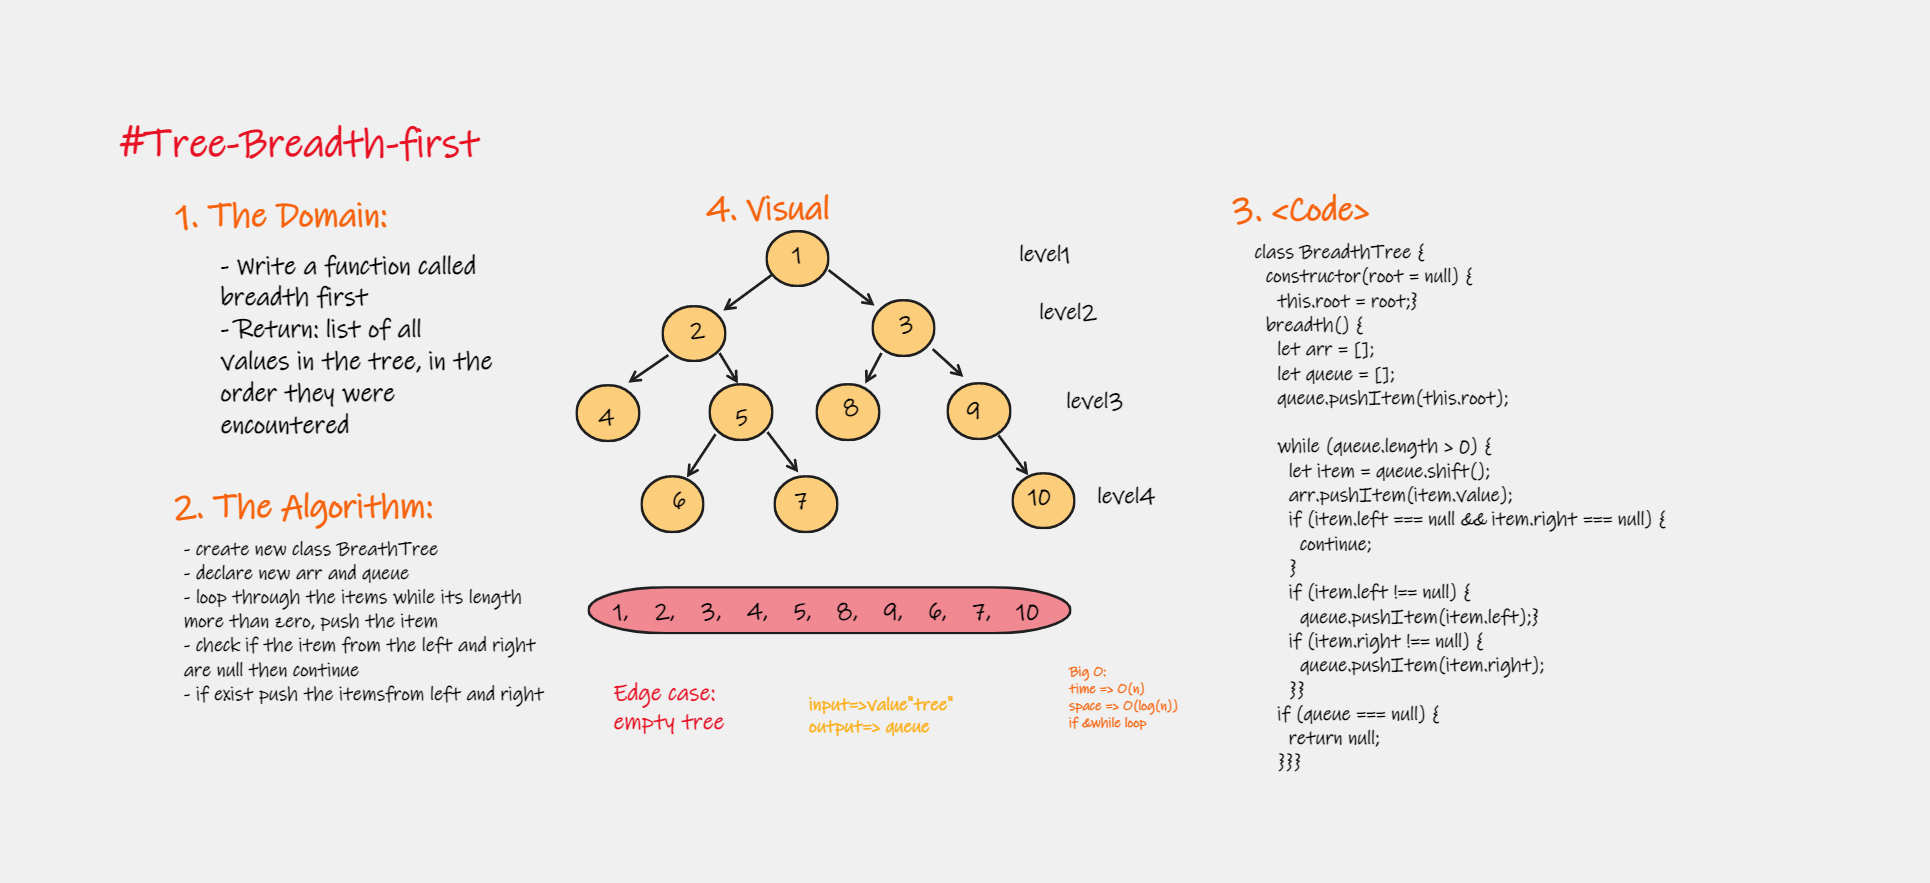
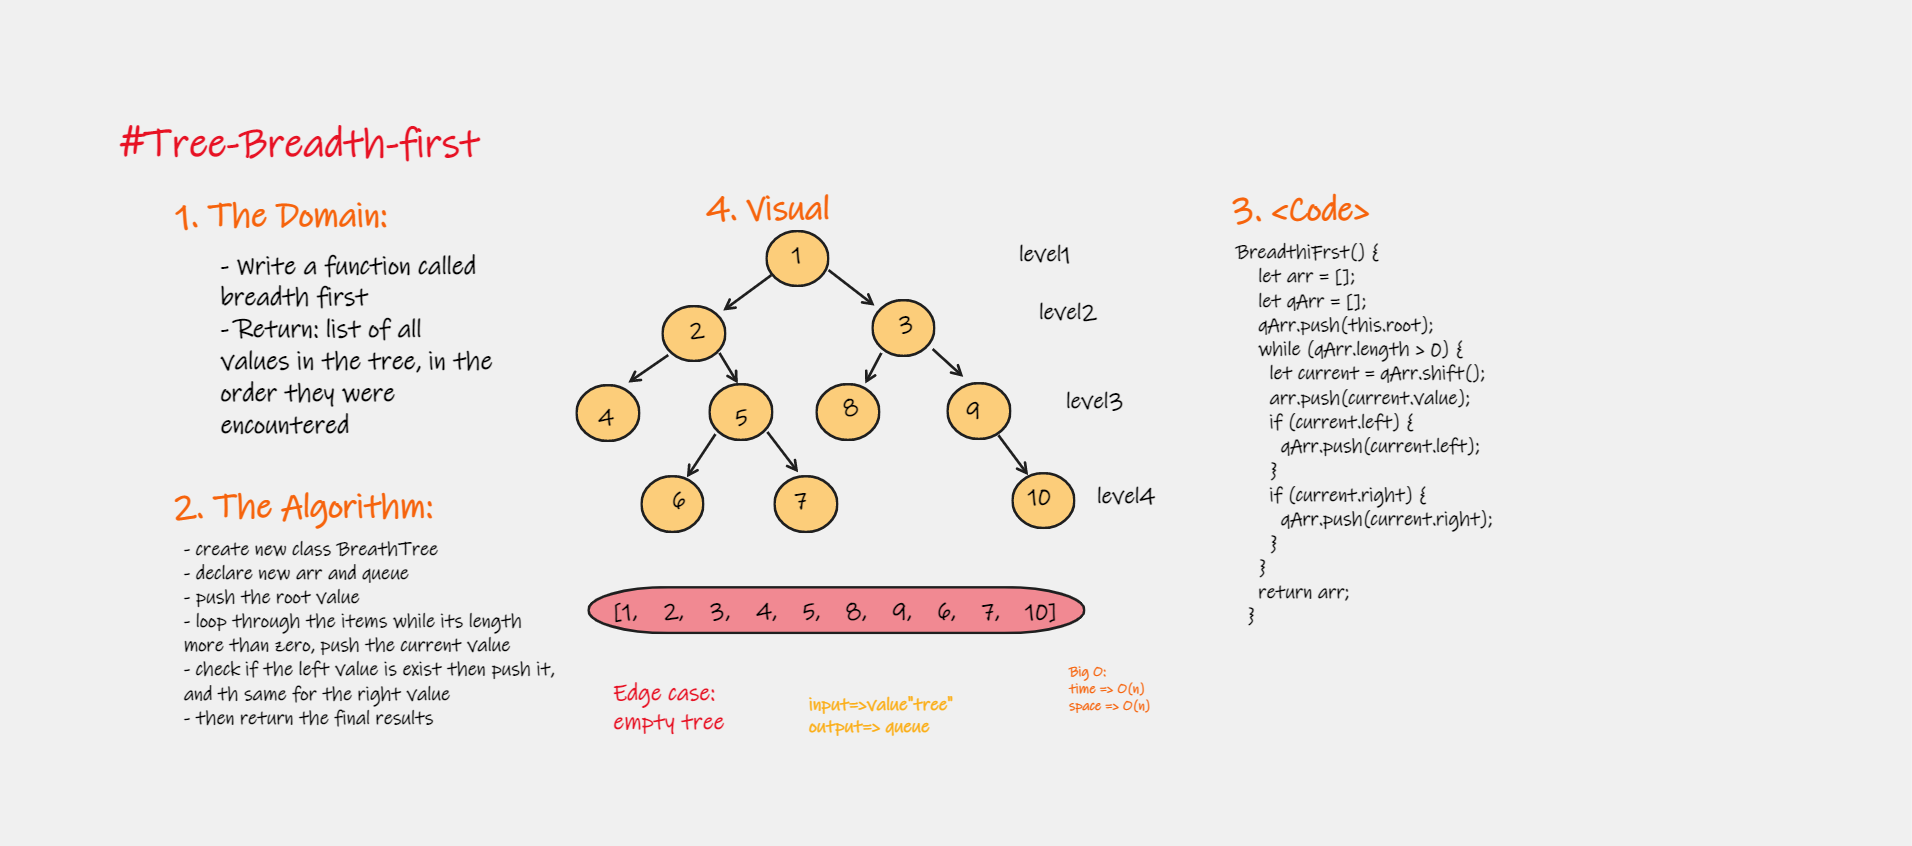
challenge 17 solved

diff --git a/javascript/tree/tests/breadth.test.js b/javascript/tree/tests/breadth.test.js
@@ -1,25 +1,55 @@
 "use strict";
+const { BT } = require("../js/binarytree");
+const node = require("../js/node");
 
-const Node = require("../js/node");
-const breadthFirst = require("../js/breadth");
-const BinaryTree = require("../js/binarytree");
-// let treeTest = null;
+let tree = null;
 
-describe("breadthFirst test", () => {
-  test("breadthFirst function", () => {
-    let a = new Node(1);
-    let b = new Node(2);
-    let c = new Node(3);
-    let d = new Node(4);
-    let e = new Node(5);
+describe("testing BinaryTree", () => {
+  beforeAll(() => {
+    let first = new node(1);
+    let second = new node(2);
+    let third = new node(3);
+    let fourth = new node(4);
+    let fifth = new node(5);
+    let sixth = new node(6);
+    let seventh = new node(7);
 
-    a.left = b;
-    a.right = c;
-    b.left = d;
-    b.right = e;
+    first.left = second;
+    first.right = third;
+    second.left = fourth;
+    second.right = fifth;
+    third.left = sixth;
+    third.right = seventh;
 
-    let treeTest = new BinaryTree(a);
-    let resultArr = [1, 2, 3, 4, 5];
-    expect(breadthFirst(treeTest)).toEqual(resultArr);
+    tree = new BT(first);
+  });
+  it("constructor", () => {
+    expect(tree.root.value).toEqual(1);
+  });
+
+  it("preOrder method", () => {
+    let output = [1, 2, 4, 5, 3, 6, 7];
+    let preOrder = tree.preOrder();
+    // console.log("preOrder output ---->", preOrder);
+    expect(preOrder).toEqual(output);
+  });
+  it("inOrder method", () => {
+    let output = [4, 2, 5, 1, 6, 3, 7];
+    let inOrder = tree.inOrder();
+    // console.log("inOrder output ---->", inOrder);
+    expect(inOrder).toEqual(output);
+  });
+  it("postOrder method", () => {
+    let output = [4, 5, 2, 6, 7, 3, 1];
+    let postOrder = tree.postOrder();
+    // console.log("postOrder output ---->", postOrder);
+    expect(postOrder).toEqual(output);
+  });
+
+  it("BreadthFirst method", () => {
+    let output = [1, 2, 3, 4, 5, 6, 7];
+    let breadthFirst = tree.BreadthFirst();
+    console.log("breadthFirst output ---->", breadthFirst);
+    expect(tree.BreadthFirst()).toEqual(output);
   });
 });

diff --git a/javascript/tree/js/binarytree.js b/javascript/tree/js/binarytree.js
@@ -1,11 +1,9 @@
 "use strict";
-
+// const node = require("./node");
 class BinaryTree {
   constructor(root = null) {
     this.root = root;
   }
-
-  // Pre-order >> root - left - right
   preOrder() {
     let result = [];
 
@@ -17,8 +15,6 @@ class BinaryTree {
     traverse(this.root);
     return result;
   }
-
-  // In-Order >> left - root - right
   inOrder() {
     let result = [];
     let traverse = (node) => {
@@ -29,8 +25,6 @@ class BinaryTree {
     traverse(this.root);
     return result;
   }
-
-  // Post-Order >> left  - right - root
   postOrder() {
     let result = [];
     let traverse = (node) => {
@@ -41,27 +35,36 @@ class BinaryTree {
     traverse(this.root);
     return result;
   }
-  add(value) {
-    let newNode = new Node(value);
-    if (this.root === null) {
-      this.root = newNode;
-    }
-    const addNode = (node) => {
-      if (node.value > value) {
-        if (node.left === null) {
-          node.left = newNode;
-          this.length++;
-        }
-        addNode(node.left);
-      } else if (node.value < value) {
-        if (node.right === null) {
-          node.right = newNode;
-        }
-        addNode(node.right);
+
+  // Max() {
+  //   let arr = this.preOrder();
+  //   let max = 0;
+  //   for (let i = 0; i < arr.length; i++) {
+  //     if (arr[i] > max) {
+  //       max = arr[i];
+  //     }
+  //   }
+  //   return max;
+  // }
+
+  BreadthFirst() {
+    let arr = [];
+    let qArr = [];
+    qArr.push(this.root);
+    while (qArr.length > 0) {
+      let current = qArr.shift();
+      arr.push(current.value);
+      if (current.left) {
+        qArr.push(current.left);
       }
-    };
-    addNode(this.root);
+      if (current.right) {
+        qArr.push(current.right);
+      }
+    }
+    return arr;
   }
 }
 
-module.exports = BinaryTree;
+module.exports = {
+  BT: BinaryTree,
+};

diff --git a/javascript/tree/js/breadth.js b/javascript/tree/js/breadth.js
@@ -1,35 +1,57 @@
 "use srict";
 
-// const node = require("./node");
+// const Node = require("./node");
+const BinaryTree = require("./binarytree");
 
-class BreadthTree {
-  constructor(root = null) {
-    this.root = root;
-  }
-  breadth() {
+class Breadth extends BinaryTree {
+  BreadthiFrst() {
     let arr = [];
-    let queue = [];
-    queue.pushItem(this.root);
-
-    while (queue.length > 0) {
-      let item = queue.shift();
-
-      arr.pushItem(item.value);
-
-      if (item.left === null && item.right === null) {
-        continue;
+    let qArr = [];
+    qArr.pushItem(this.root);
+    while (qArr.length > 0) {
+      let current = qArr.shift();
+      arr.pushItem(current.value);
+      if (current.left !== null) {
+        qArr.pushItem(current.left);
       }
-      if (item.left !== null) {
-        queue.pushItem(item.left);
-      }
-      if (item.right !== null) {
-        queue.pushItem(item.right);
+      if (current.right !== null) {
+        qArr.pushItem(current.right);
       }
     }
-    if (queue === null) {
-      return;
-    }
+    return arr;
   }
 }
 
-module.exports = BreadthTree;
+module.exports = Breadth;
+
+// class BreadthTree {
+//   constructor(root = null) {
+//     this.root = root;
+//   }
+//   breadth() {
+//     let arr = [];
+//     let queue = [];
+//     queue.enqueue(this.root);
+
+//     while (queue.length > 0) {
+//       let item = queue.shift();
+
+//       arr.enqueue(item.value);
+
+//       if (item.left === null && item.right === null) {
+//         continue;
+//       }
+//       if (item.left !== null) {
+//         queue.enqueue(item.left);
+//       }
+//       if (item.right !== null) {
+//         queue.enqueue(item.right);
+//       }
+//     }
+//     if (queue === null) {
+//       return;
+//     }
+//   }
+// }
+
+// module.exports = BreadthTree;

diff --git a/javascript/tree/read/breadth.md b/javascript/tree/read/breadth.md
@@ -14,12 +14,14 @@ NOTE: Traverse the input tree using a Breadth-first approach
 
 | method|Time complexity |Space complexity | 
 | :---: | :---: | :---: |
-|breadth-tree|O(n):if & while | O(log(n))|
+|breadth-tree|O(n):if & while | O(n)|
 
 
 ## Whiteboard Process
 
 ![breadth](./../assets/breadth17.png)
+
+![breadth.test](./../assets/breadthtest.png)
 
 
 
